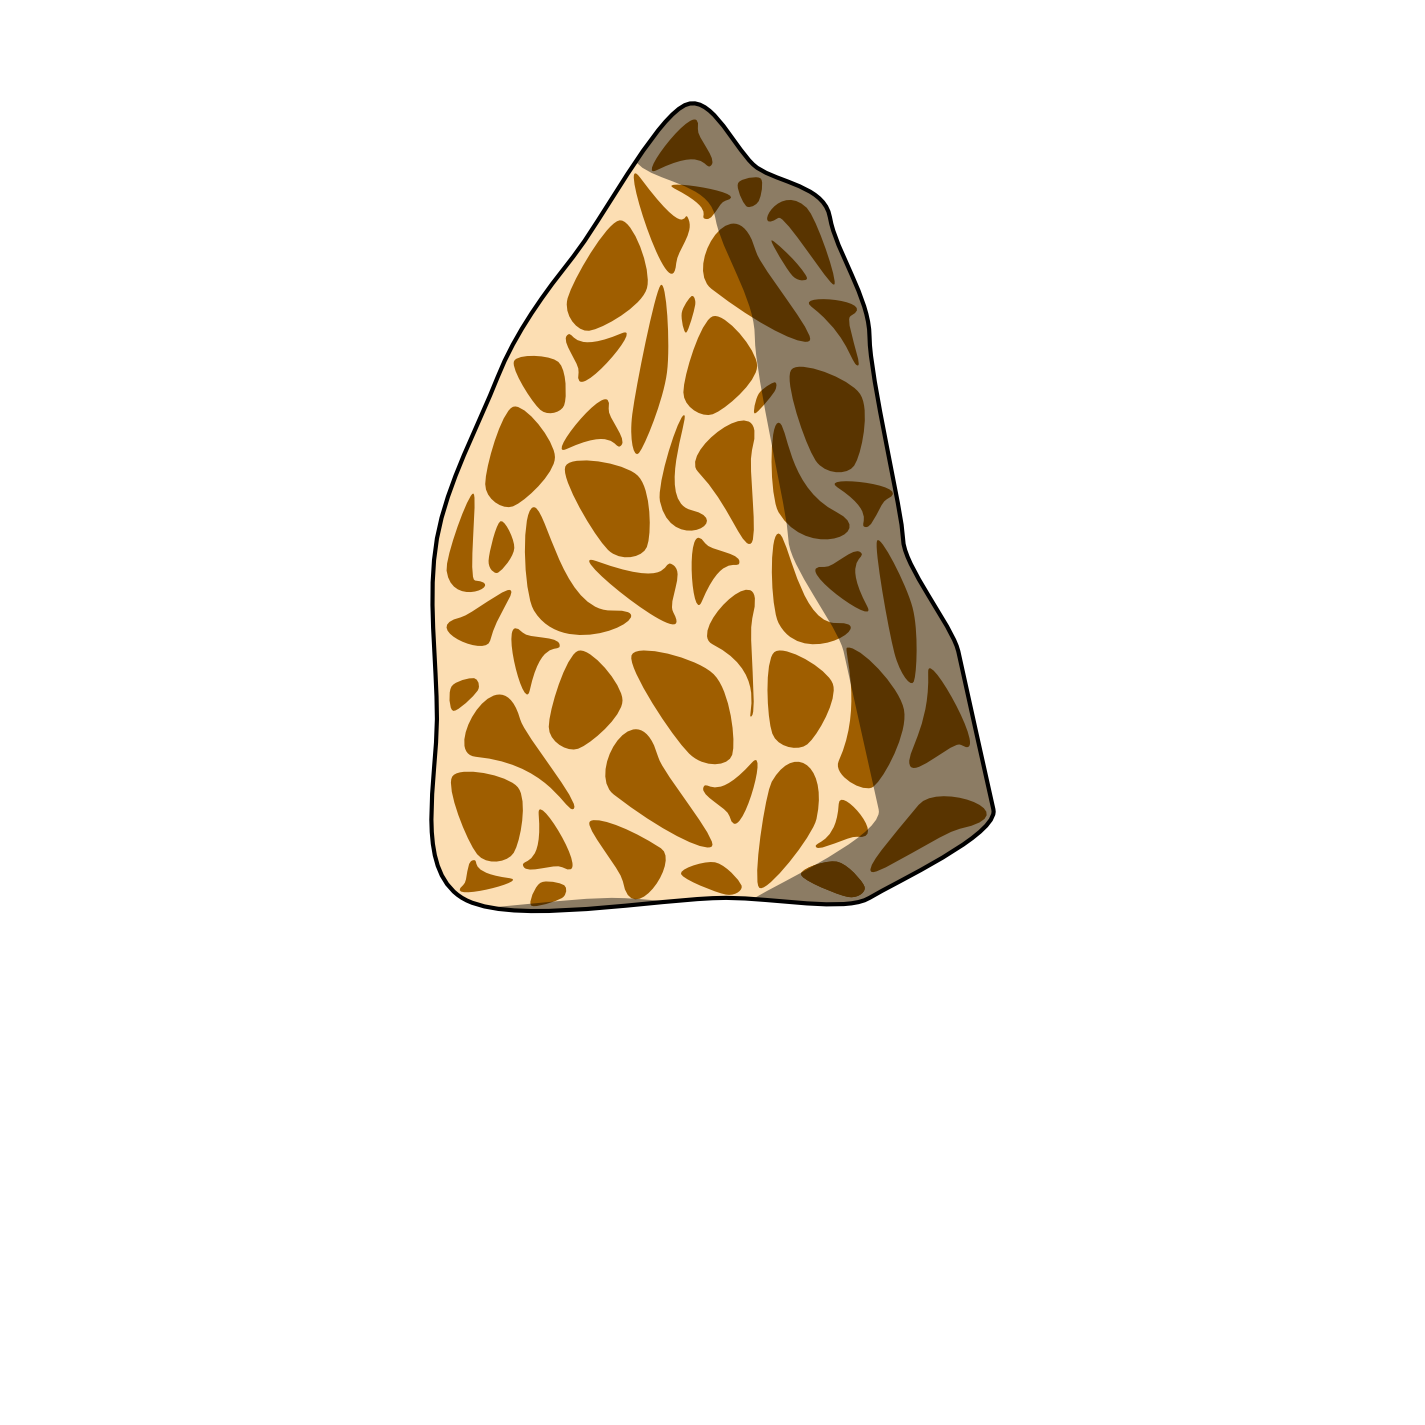
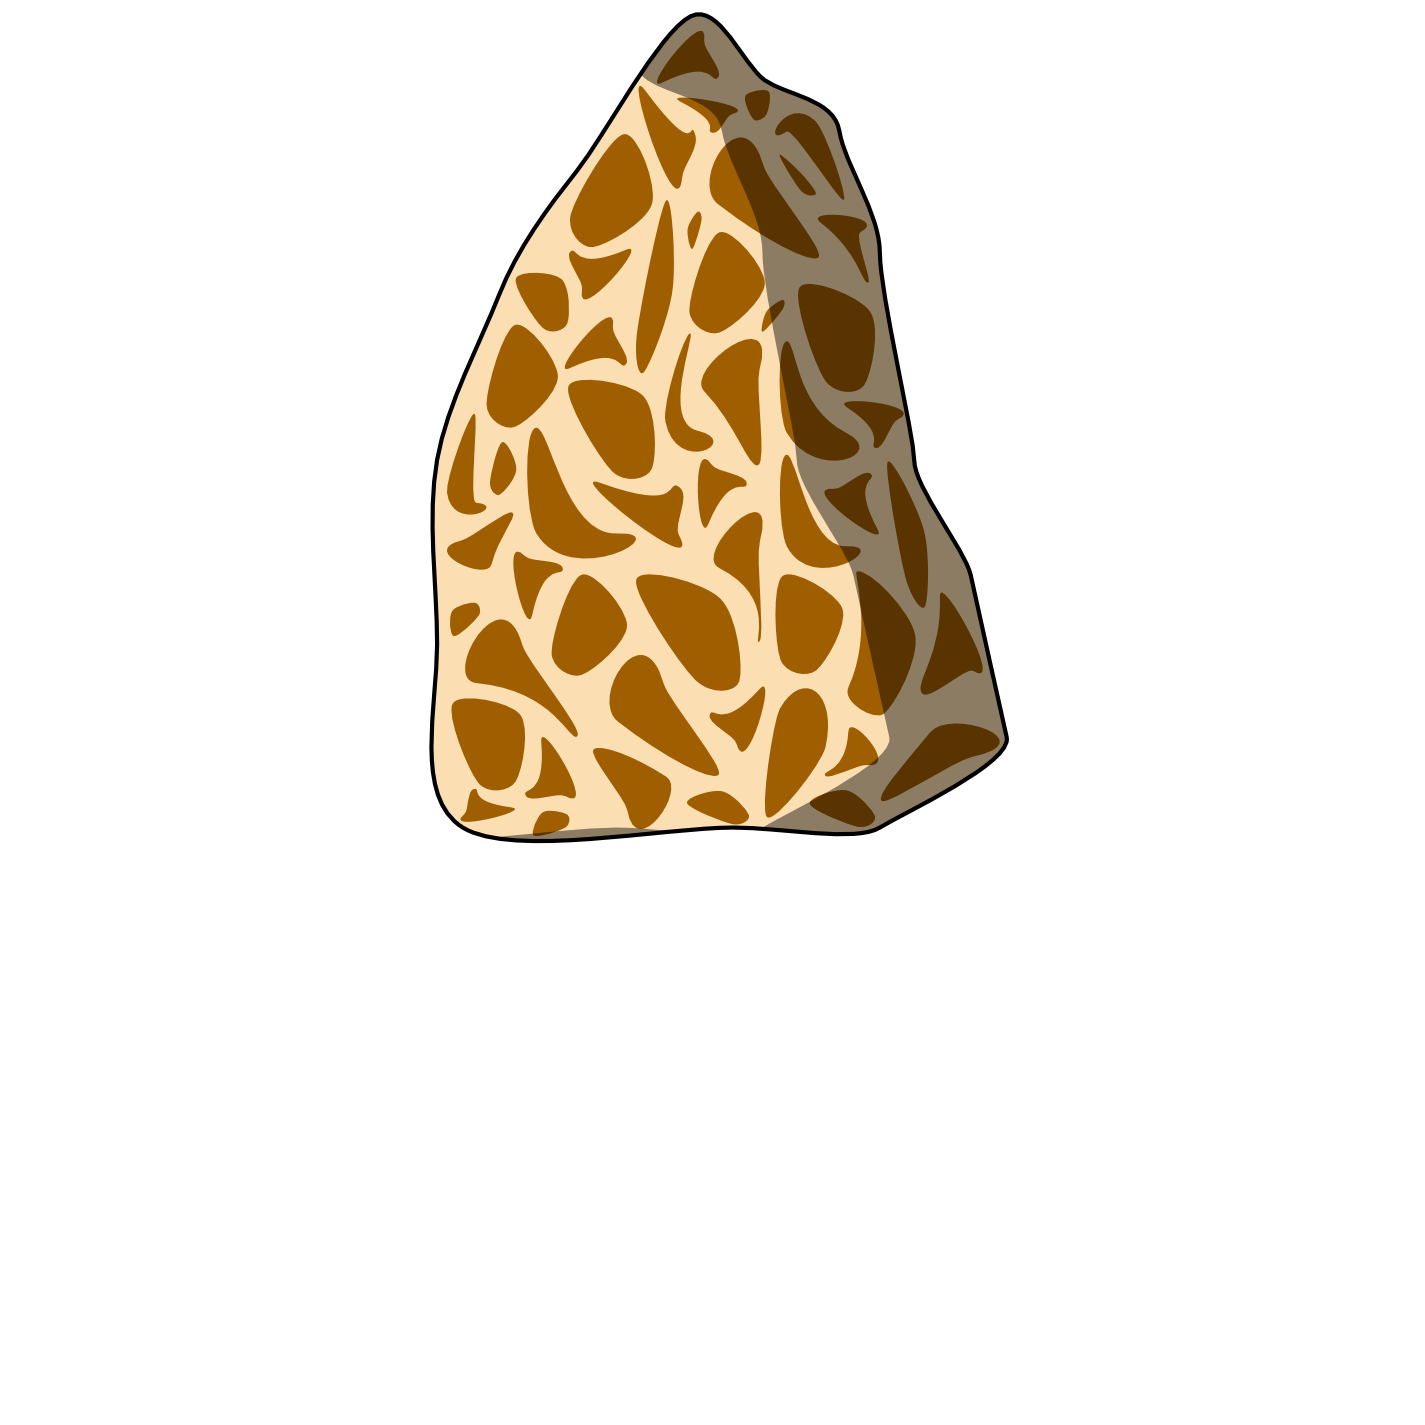
add maitake head and stem

Changed region(s): [[0.2779, 0.0, 0.7102, 0.6484]]

diff --git a/src/App.js b/src/App.js
@@ -7,6 +7,8 @@ import sulfurHeadImg from './img/sulfur-head.png';
 import sulfurStemImg from './img/sulfur-stem.png';
 import flyHeadImg from './img/fly-head.png';
 import flyStemImg from './img/fly-stem.png';
+import maitakeHeadImg from './img/maitake-head.png';
+import maitakeStemImg from './img/maitake-stem.png';
 import spaceImg from './img/bg-space.png';
 import urbanImg from './img/bg-urban.png';
 import blankImg from './img/bg-blank.png';
@@ -29,6 +31,14 @@ const ComponentImg = styled.img`
 const HighlightedComponentImg = styled(ComponentImg)`
   border: 1px solid #ff80f4;
 `;
+const NewTag = styled.div`
+  border: 1px solid #000000;
+  border-radius: 0.5rem;
+  background: yellow;
+  padding: 2px;
+  margin: 6px;
+  display: inline-block;
+`;
 
 class ComponentCard extends React.Component {
   constructor(props) {
@@ -36,7 +46,7 @@ class ComponentCard extends React.Component {
   }
 
   render() {
-    const { imgUrl, id, selectHandler, shouldHighlight } = this.props;
+    const { imgUrl, id, selectHandler, shouldHighlight, designateNew } = this.props;
     let img;
     if (shouldHighlight) {
       img = <HighlightedComponentImg src= {imgUrl}/>
@@ -45,7 +55,12 @@ class ComponentCard extends React.Component {
     }
     return (
       <Container onClick={() => selectHandler(id)}>
-        {img}
+        <div>
+          {designateNew ? <NewTag>new!</NewTag> : <div>&nbsp;</div>}
+          <br></br>
+          {img}
+        </div>
+
       </Container>
     )
   }
@@ -66,7 +81,7 @@ class ComponentRow extends React.Component {
       <>
         <Title>{title}</Title>
         <div>
-          {componentCardItems.map(card => <ComponentCard imgUrl={card.imgUrl} id={card.id} selectHandler={selectHandler} shouldHighlight={card.id === selectedId}/>)}
+          {componentCardItems.map(card => <ComponentCard imgUrl={card.imgUrl} id={card.id} selectHandler={selectHandler} shouldHighlight={card.id === selectedId} designateNew={card.new}/>)}
         </div>
       </>
     )
@@ -74,6 +89,12 @@ class ComponentRow extends React.Component {
 }
 
 const MushroomHeadsData = [
+  {
+    imgUrl: maitakeHeadImg,
+    id: 9,
+    name: 'Grifola',
+    new: true,
+  },
   {
     imgUrl: morelHeadImg,
     id:0,
@@ -92,6 +113,12 @@ const MushroomHeadsData = [
 ]
 
 const MushroomStemsData = [
+  {
+    imgUrl: maitakeStemImg,
+    id:10,
+    name: 'frondosa',
+    new: true,
+  },
   {
     imgUrl: morelStemImg,
     id:3,
